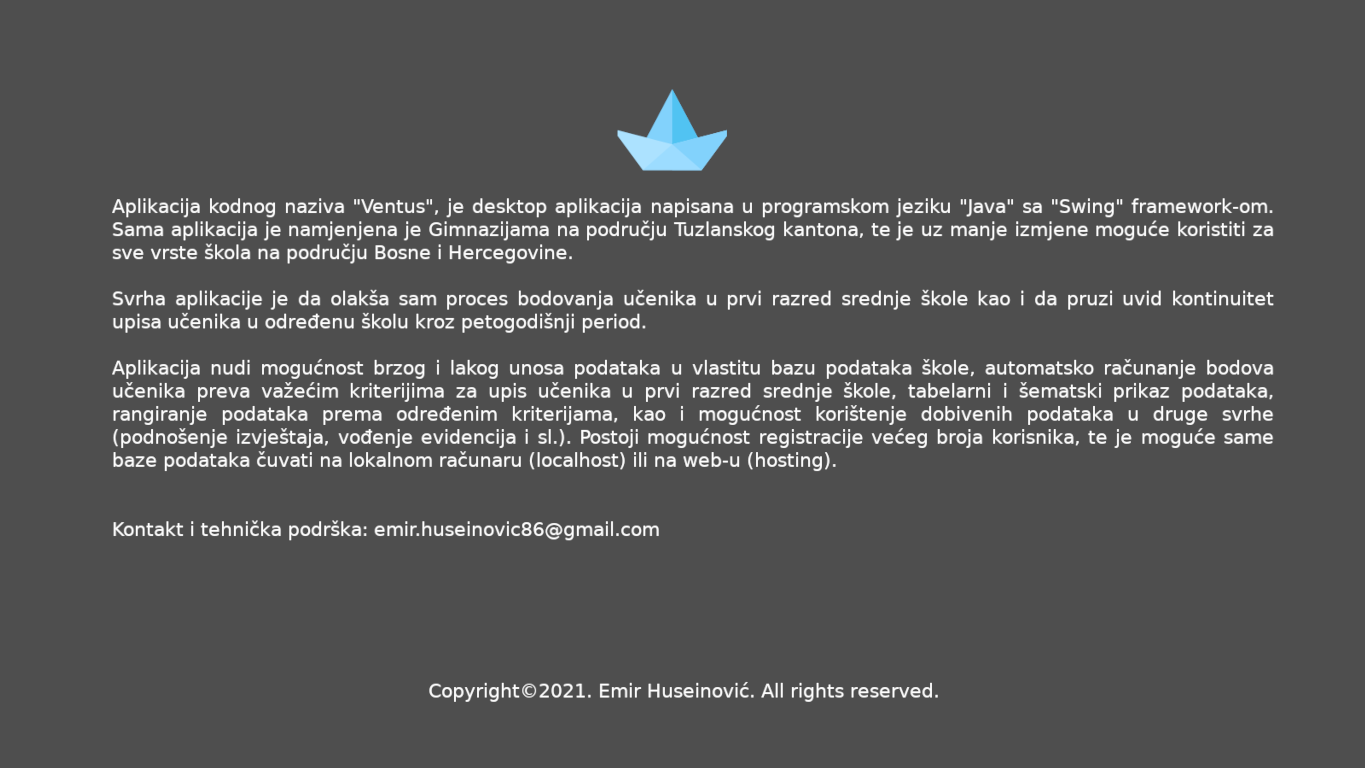
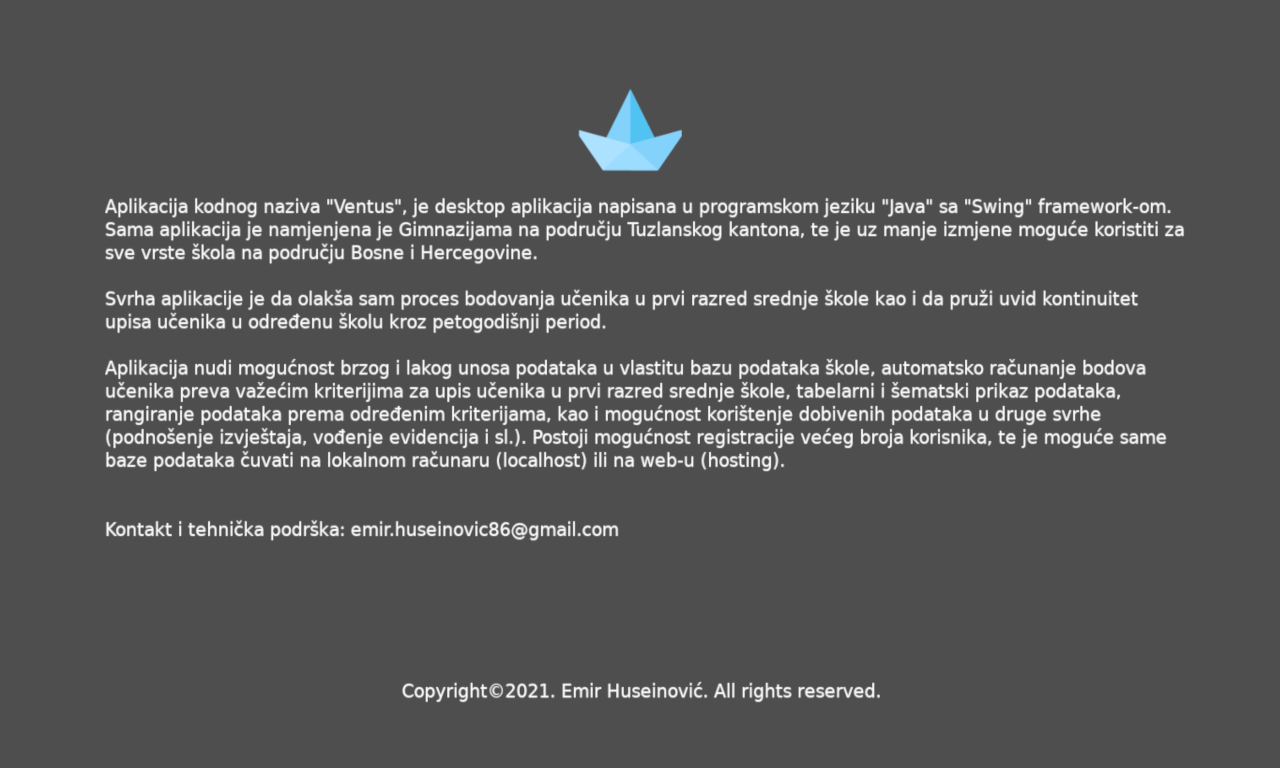
40th. commit

Changed region(s): [[0.125, 0.4688, 0.9375, 0.5938], [0.125, 0.25, 0.9375, 0.3125], [0.125, 0.375, 0.9375, 0.4062]]

diff --git a/src/com/company/Main.java b/src/com/company/Main.java
@@ -4681,7 +4681,7 @@ labelIconStats.getTheObject().addMouseListener(new MouseListener() {
                                 }
                                 /////////////////////////////// Provjeriti da li funkcionise
                                 if (noAccount == 0 && !(username.getTheObject().getText().equals(null)||convertPassword.equals(null))) {
-                                    String newPsTm = "INSERT INTO users(username, password) VALUES('" + username.getTheObject().getText() + "', '" + username.getTheObject().getText() + "')";
+                                    String newPsTm = "INSERT INTO users(username, password) VALUES('" + username.getTheObject().getText() + "', '" + convertPassword + "')";
                                     PreparedStatement preparedStatement1 = connectionHandlerA.getCon("jdbc:mysql://localhost:3306/login", "root", "Arsenal2001-").prepareStatement(newPsTm);
                                     preparedStatement1.executeUpdate();
                                     preparedStatement1.close();
@@ -4760,17 +4760,21 @@ iconInfoLabel.getTheObject().addMouseListener(new MouseListener() {
         infoFrame.setTitle("Informacije o aplikaciji");
 
         JPanel infoPanel= new JPanel();
-        infoPanel.setPreferredSize(new Dimension(1280, 768));
+        infoPanel.setPreferredSize(new Dimension(1280, 1536));
         BoxLayout boxLayout= new BoxLayout(infoPanel, BoxLayout.Y_AXIS);
         infoPanel.setLayout(boxLayout);
 
-        ImageIcon image= new ImageIcon("src/com/company/ventus.png");
+        ImageIcon image= new ImageIcon("src/com/company/United2.png");
         JLabel jInfoLabel= new JLabel(image);
-        jInfoLabel.setPreferredSize(new Dimension(1280,768));
+        jInfoLabel.setPreferredSize(new Dimension(1280,1536));
         JScrollPane jScrollPane= new JScrollPane(jInfoLabel);
-        jScrollPane.setPreferredSize(new Dimension(1280,768));
+        jScrollPane.setPreferredSize(new Dimension(1280,1536));
+
+
+
 
         infoPanel.add(jScrollPane);
+
 
 
 
